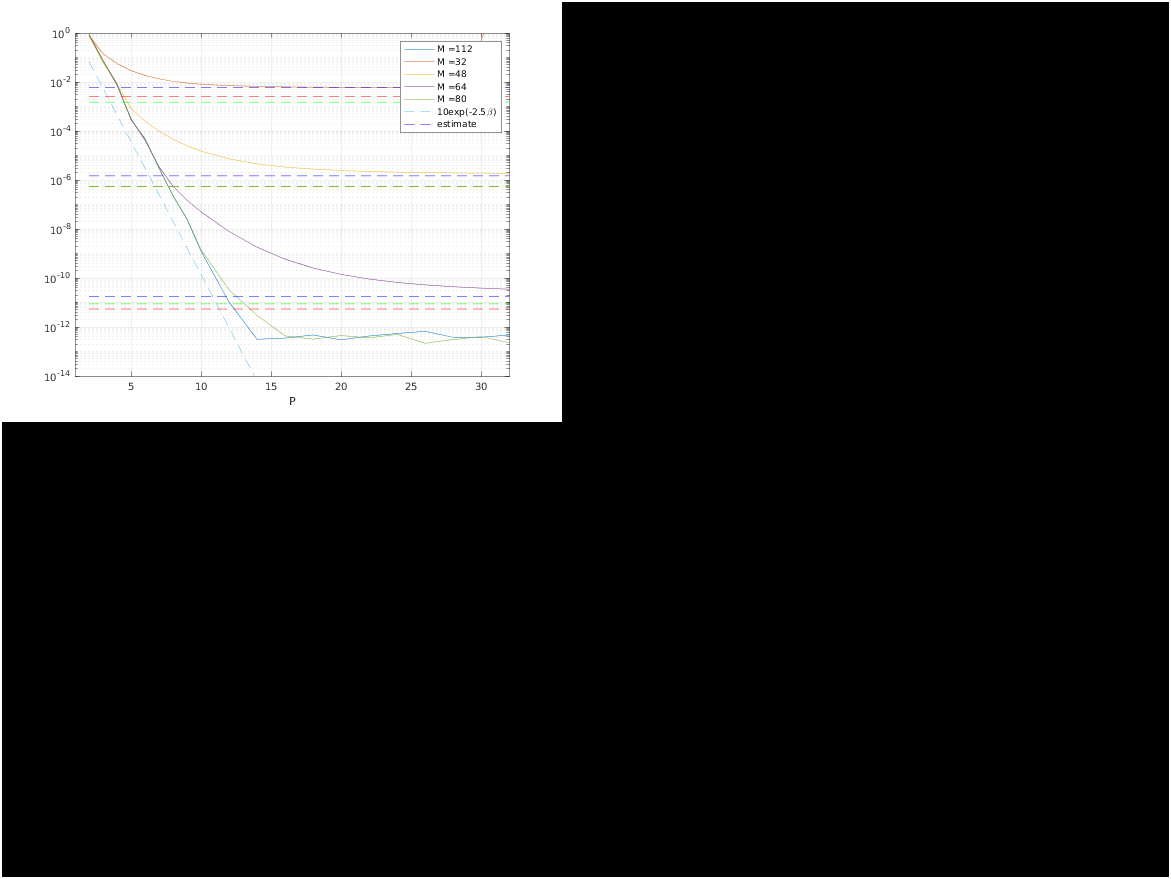
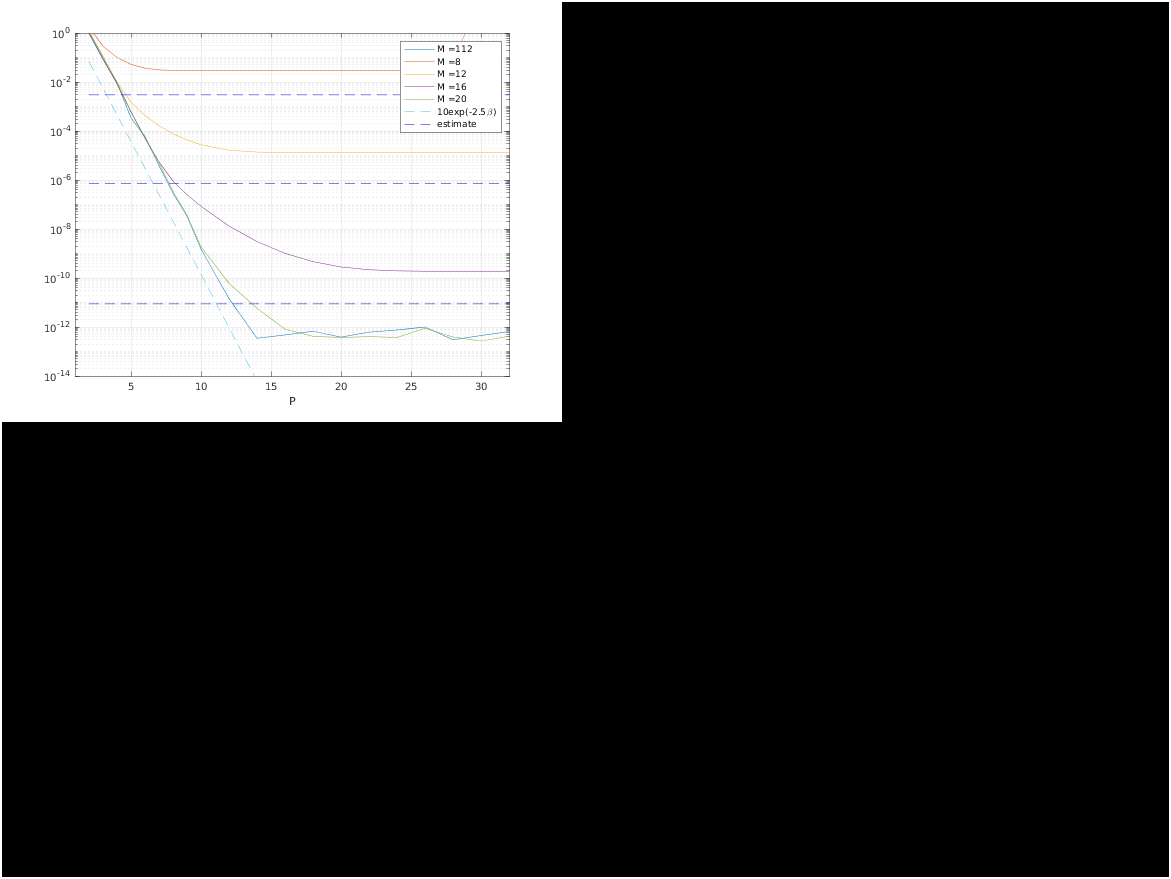
imgs

diff --git a/SE_Stokes_run/SE3P_Stokes/P_error.m b/SE_Stokes_run/SE3P_Stokes/P_error.m
@@ -8,7 +8,7 @@ N = 1000; % number of source particles
 
 
 %% Parameter selection
-L = 2; % box side length
+L = 1; % box side length
 box = [L L L]; % periodic box
 opt.box = box;
 
@@ -17,7 +17,7 @@ opt.box = box;
 
 M0 = 128; % Set M0=M/L, the restu * 1+ is automatic
 opt.M = M0*[1,1,1];
-opt.xi = 10;
+opt.xi = 5;
 opt.betaP = 2.5;
 opt.c = sqrt(0.91);
 %opt.window = 'kaiser_exact';
@@ -45,7 +45,7 @@ end
 %ref = SE3P_Stokes(1:N,x,f,opt);
 rms_ref = rmse(ref);
 %% Compare solutions with changing P
-MM = 4.*(8:4:20);
+MM = (8:4:20);
 str = {};
 est_old = @(M,xi,L,f) sqrt(f)*(xi^3*L^2/(pi^4*(M/2)^(3/2)))*exp(-(pi*(M/2)/(xi*L))^2);
 %est = @(M,xi,L,f) sqrt(f)*(4/(3^(1/4)*L*pi))*exp(-(pi*M/(xi*L*2))^2);
@@ -67,7 +67,7 @@ for M = [112 MM]
     		opt.P = P;
     		u = SE3P_Stokes(1:N, x, f, opt);
     		rms_err = [rms_err rmse(u-ref)];	
-    end
+         end
     e = est(M,opt.xi,L,F);
     e_vec = [e_vec, e];
 	semilogy(PP,rms_err)
@@ -88,8 +88,8 @@ str = [str,'exp(-(\pi/2)Pc)'];
 end
 for i = 1:length(e_vec)
     semilogy(PP,ones(1,length(PP))*e_vec(i),('bl--'))
-    semilogy(PP,ones(1,length(PP))*ee_vec(i),'r--')
-    semilogy(PP,ones(1,length(PP))*eee_vec(i),'g--')
+%    semilogy(PP,ones(1,length(PP))*ee_vec(i),'r--')
+ %   semilogy(PP,ones(1,length(PP))*eee_vec(i),'g--')
 end
 str = [str,'estimate'];
 opt
